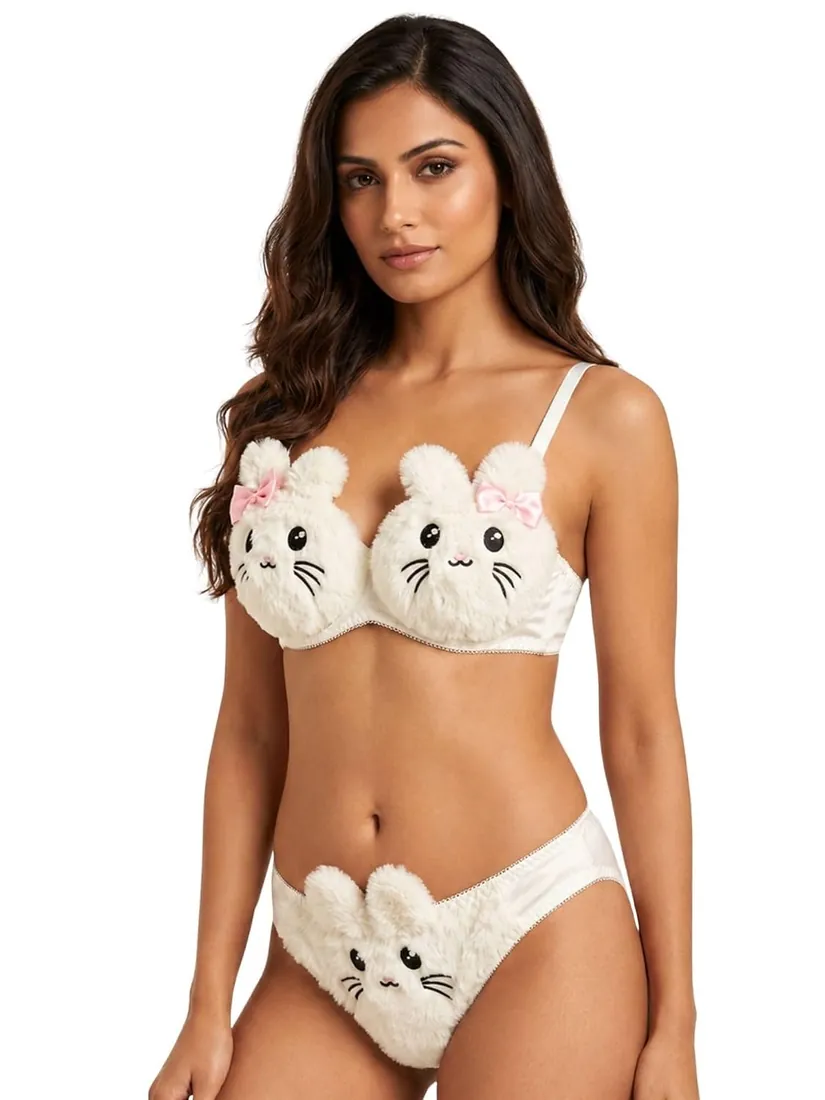
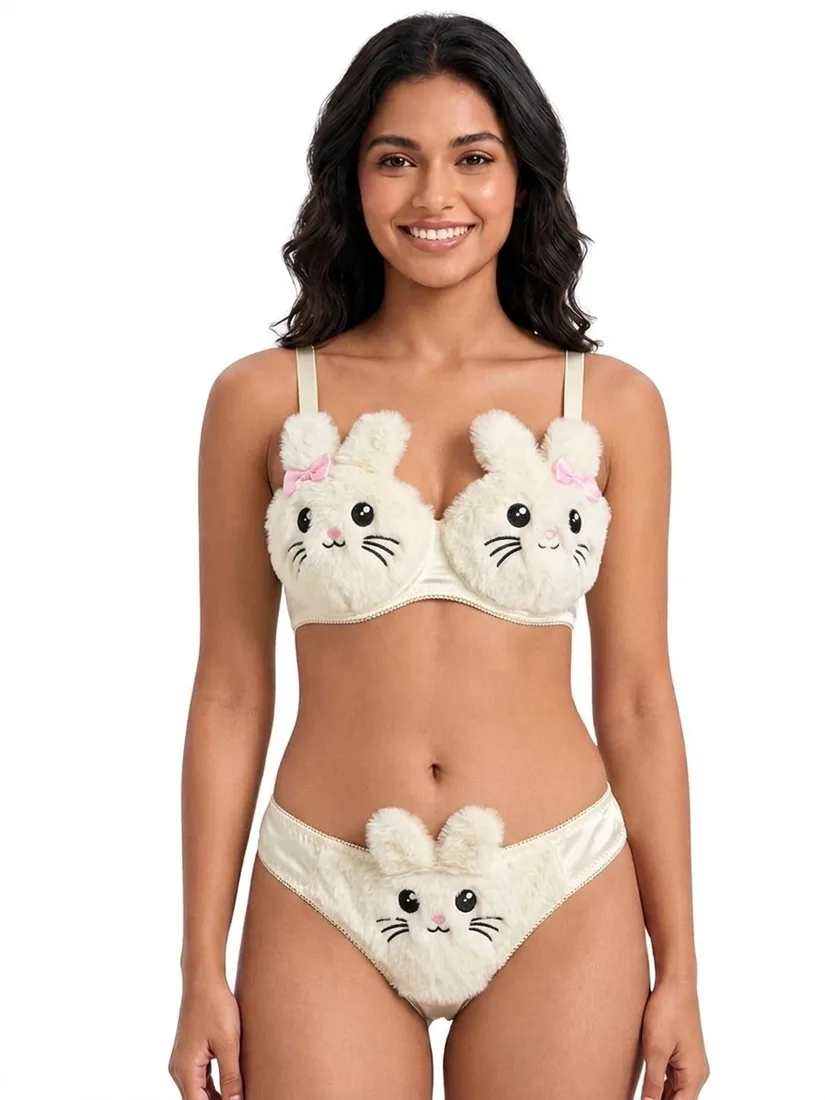
ensemble-lapin : nouvelles photos (5 couleurs: blanc, rose, mauve, rouge, vert + côté + dos)
Claude-Session: https://claude.ai/code/session_01AgTmiUhdNMez9dRJYLdeAs

Changed region(s): [[0.1818, 0.0, 0.8788, 1.0], [0.6061, 0.9891, 0.6364, 1.0]]

diff --git a/ensemble-lapin/index.html b/ensemble-lapin/index.html
@@ -27,15 +27,14 @@ window.PAGE = {
   couleurs: [
     { id: 'blanc', ar: 'أبيض', fr: 'Blanc', img: 'blanc' },
     { id: 'rose', ar: 'وردي', fr: 'Rose', img: 'rose' },
-    { id: 'roseclair', ar: 'وردي فاتح', fr: 'Rose clair', img: 'rose2' },
     { id: 'mauve', ar: 'موف', fr: 'Mauve', img: 'mauve' },
     { id: 'rouge', ar: 'أحمر', fr: 'Rouge', img: 'rouge' },
     { id: 'vert', ar: 'أخضر', fr: 'Vert', img: 'vert' }
   ],
   images: [
     { src: 'rose', alt: 'طقم أرنب وردي' }, { src: 'rouge', alt: 'طقم أرنب أحمر' }, { src: 'blanc', alt: 'طقم أرنب أبيض' },
-    { src: 'rose2', alt: 'طقم أرنب وردي فاتح' }, { src: 'vert', alt: 'طقم أرنب أخضر' }, { src: 'mauve', alt: 'طقم أرنب موف' },
-    { src: 'dos', alt: 'الطقم من الخلف' }, { src: 'stock', alt: 'الألوان المتوفرة' }
+    { src: 'mauve', alt: 'طقم أرنب موف' }, { src: 'vert', alt: 'طقم أرنب أخضر' },
+    { src: 'cote', alt: 'طقم أرنب وردي من الجانب' }, { src: 'dos', alt: 'الطقم من الخلف' }
   ]
 };
 /* Meta Pixel + TikTok Pixel */
@@ -207,7 +206,7 @@ footer{padding:28px 0 100px;text-align:center;color:var(--muted);font-size:13.5p
   var P = window.PAGE, f = document.getElementById('commande');
   document.getElementById('logo').textContent = P.marque; document.getElementById('logo2').textContent = P.marque;
   var main = document.getElementById('mainImg'), thumbs = document.getElementById('thumbs');
-  function montrer(src, alt, b) { main.src = 'img/' + src + '.webp'; main.alt = alt; main.style.objectFit = src === 'mauve' ? 'contain' : ''; [].forEach.call(thumbs.children, function (x) { x.setAttribute('aria-current', String(x === b)); }); }
+  function montrer(src, alt, b) { main.src = 'img/' + src + '.webp'; main.alt = alt; main.style.objectFit = ''; [].forEach.call(thumbs.children, function (x) { x.setAttribute('aria-current', String(x === b)); }); }
   P.images.forEach(function (im, i) {
     var b = document.createElement('button'); b.type = 'button'; b.setAttribute('aria-label', im.alt); b.setAttribute('aria-current', String(i === 0));
     b.innerHTML = '<img src="img/' + im.src + '-t.webp" alt="" loading="lazy">';
